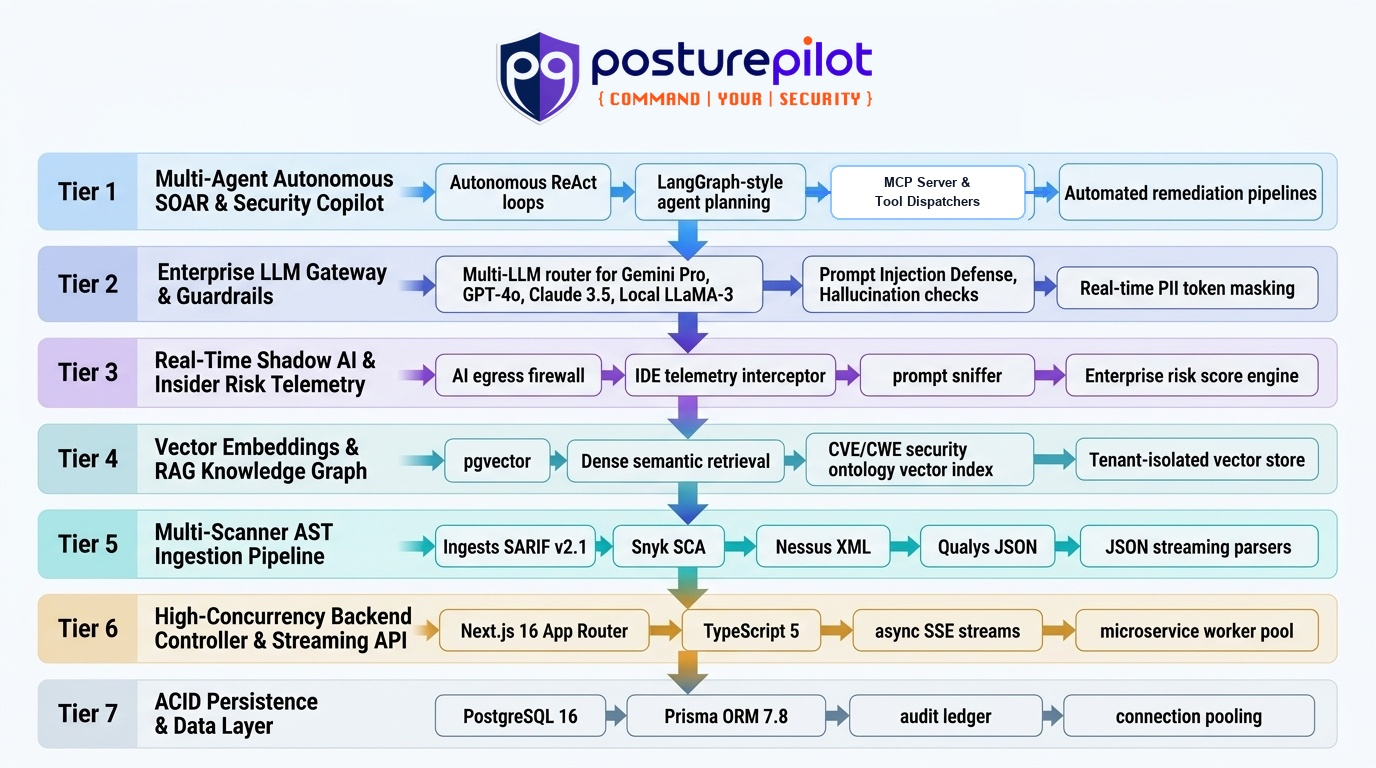
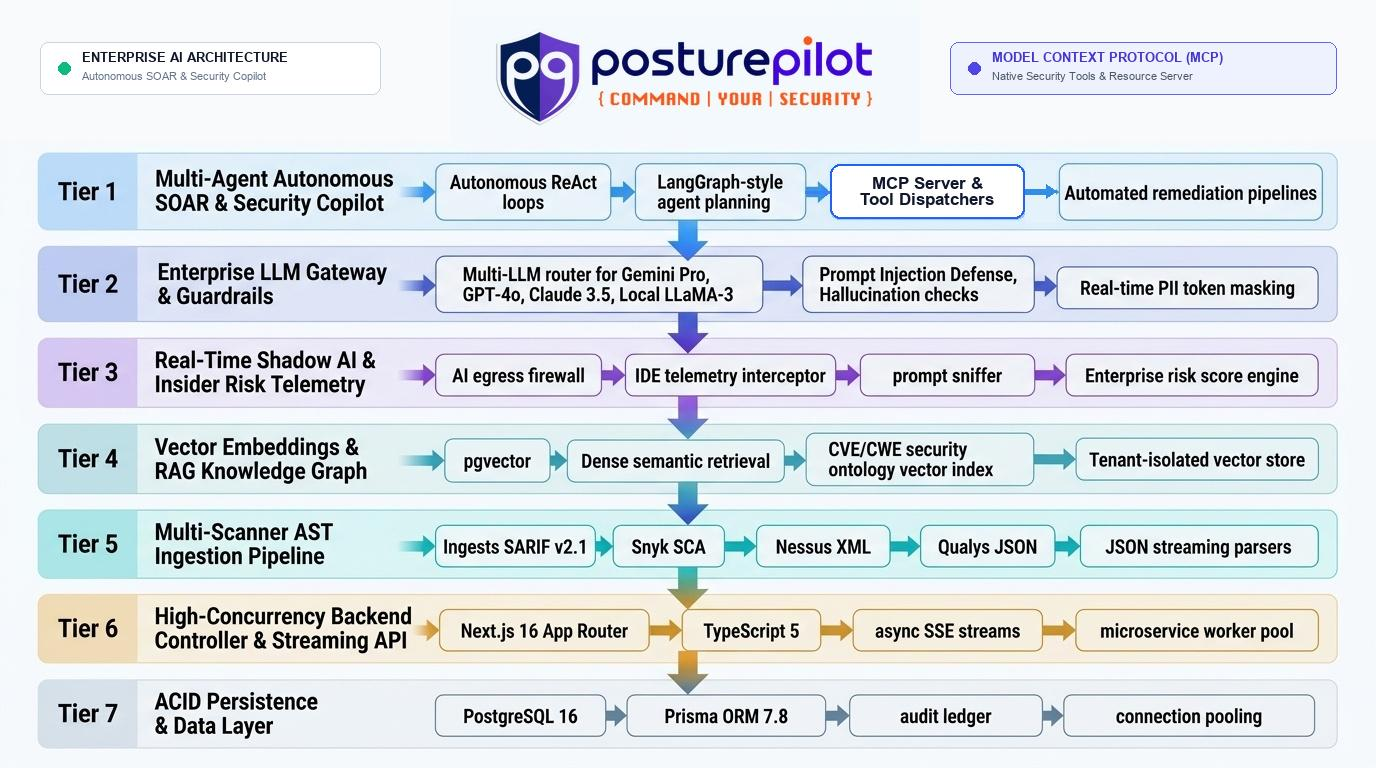
feat(architecture): add prominent Model Context Protocol (MCP) server badge and references on diagram and tiers

diff --git a/src/app/architecture/page.tsx b/src/app/architecture/page.tsx
@@ -88,6 +88,7 @@ const TECH_LAYERS: TechStackLayer[] = [
       { name: 'pgvector (HNSW Indexing)', version: '0.7.x', purpose: 'Vector similarity search with Hierarchical Navigable Small World graphs' },
       { name: 'text-embedding-3-large', version: '1536/3072 dim', purpose: 'High-precision semantic embeddings for vulnerability descriptions' },
       { name: 'Hybrid RAG Retriever', version: 'BM25 + Dense', purpose: 'Fused keyword and vector search for exact CVE IDs and contextual queries' },
+      { name: 'MCP Resource Provider', version: 'RFC-MCP', purpose: 'Exposes CVE/CWE ontology graphs & vector knowledge as MCP Resources to LLMs' },
       { name: 'Security Graph Ontology', version: 'OASIS CSAF', purpose: 'Graph relations connecting assets, software packages, and exploit paths' }
     ],
     codeLocation: 'src/lib/vector/rag.ts, src/lib/embeddings/generator.ts, prisma/schema.prisma'
@@ -96,13 +97,14 @@ const TECH_LAYERS: TechStackLayer[] = [
     id: 5,
     name: 'Multi-Scanner AST Ingestion Pipeline',
     category: 'Data Normalization & ETL',
-    technologies: 'OASIS SARIF v2.1 • Snyk JSON • Tenable Nessus XML • Qualys • PapaParse 5.5 • xml2js 0.6',
+    technologies: 'OASIS SARIF v2.1 • Snyk JSON • Tenable Nessus XML • Qualys • MCP Tool Adapters • PapaParse 5.5',
     color: '#d97706',
     badgeBg: '#fef3c7',
     activeBg: '#fffbeb',
     icon: '📥',
-    summary: 'Streaming ETL parser engine that ingests raw multi-vendor security scan outputs (SARIF, Nessus XML, Snyk SCA, Qualys) and normalizes them into unified, deduplicated finding entities.',
+    summary: 'Streaming ETL parser engine that ingests raw multi-vendor security scan outputs (SARIF, Nessus XML, Snyk SCA, Qualys) and normalizes them into unified, deduplicated finding entities, exposed to AI agents via MCP Tools.',
     packages: [
+      { name: 'MCP Tool Scanner Adapters', version: 'v1.4.0', purpose: 'Standardized Model Context Protocol tool endpoints allowing AI agents to trigger & query AST parsers' },
       { name: 'papaparse', version: '5.5.3', purpose: 'Fast streaming in-memory parser for bulk CSV/TSV vulnerability data' },
       { name: 'xml2js', version: '0.6.2', purpose: 'SAX XML-to-JavaScript object transformer for Tenable Nessus and Qualys XML' },
       { name: 'SARIF v2.1 Parser', version: 'OASIS Standard', purpose: 'AST mapper for GitHub Advanced Security, Semgrep, and Trivy' },
